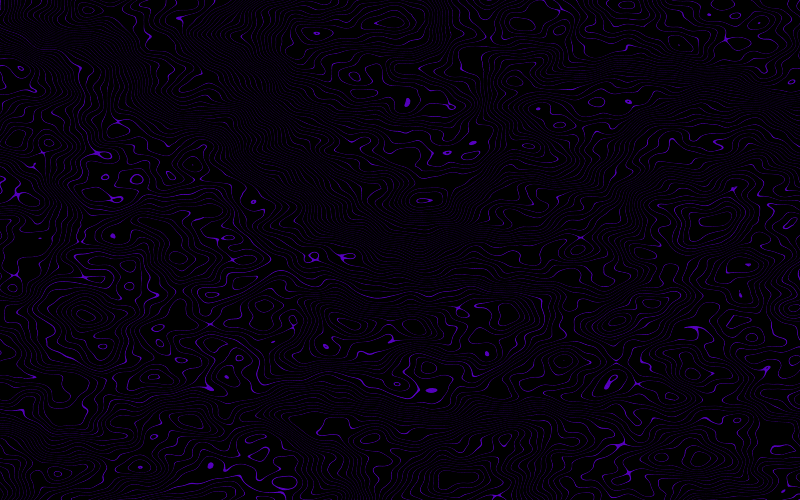
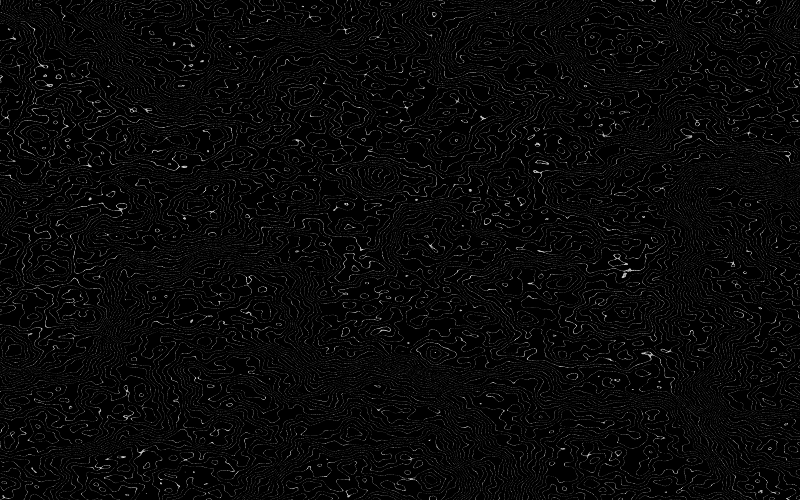
added scale and seed parameters

Changed region(s): [[0.0, 0.0, 1.0, 1.0]]

diff --git a/src/main.rs b/src/main.rs
@@ -1,8 +1,8 @@
-use noise::{Fbm, NoiseFn, Perlin};
 use image::RgbImage;
+use indicatif::ParallelProgressIterator;
+use noise::{Fbm, NoiseFn, Perlin};
 use rand::Rng;
 use rayon::prelude::*;
-use indicatif::ParallelProgressIterator;
 
 mod color;
 use color::Color;
@@ -19,12 +19,12 @@ fn noise_to_color(noise: f64, color1: Color, color2: Color, bands: f64, band_wid
 // returns percentage (150% - 50%) for how much a sample point should add to the final color
 // avarage between offset = -0.5 and offset = 0.5 is 100%
 fn get_sample_importance(x_offset: f64, y_offset: f64) -> f64 {
-	let offset = (x_offset*x_offset + y_offset*y_offset).sqrt();
+	let offset = (x_offset * x_offset + y_offset * y_offset).sqrt();
 	-2.0 * offset + 1.5
 }
 
-fn generate(filepath: &str, width: usize, height: usize, samples: usize) {
-	let fbm = Fbm::<Perlin>::new(0);
+fn generate(filepath: &str, width: usize, height: usize, samples: usize, scale: f64, seed: u32) {
+	let fbm = Fbm::<Perlin>::new(seed);
 
 	let mut image = vec![Color::default(); width * height];
 	image
@@ -35,21 +35,24 @@ fn generate(filepath: &str, width: usize, height: usize, samples: usize) {
 			let mut rng = rand::thread_rng();
 			for (x, output) in row.iter_mut().enumerate() {
 				for _ in 0..samples {
+					let x = x as f64 * scale;
+					let y = y as f64 * scale;
 					let x_offset = rng.gen_range(-0.5..0.5);
 					let y_offset = rng.gen_range(-0.5..0.5);
 					let sample_importance = get_sample_importance(x_offset, y_offset);
 					let value = fbm.get([
-						((x as f64 + x_offset) / width as f64) * 0.64,
-						((y as f64 + y_offset) / height as f64) * 0.64]);
+						(x + x_offset) / width as f64,
+						(y + y_offset) / height as f64,
+					]);
 					let color = noise_to_color(
 						value,
-						Color{ r: 115.0 / 255.0, g: 0.0, b: 1.0},
-						Color{ r: 0.0, g: 0.0, b: 0.0 },
-						50.0,
-						0.00125,
+						Color { r: 1.0, g: 1.0, b: 1.0 },
+						Color { r: 0.0, g: 0.0, b: 0.0 },
+						100.0,
+						0.0018,
 					);
 					*output += color * sample_importance * (1.0 / samples as f64);
-				}			
+				}
 			}
 		});
 
@@ -63,8 +66,8 @@ fn generate(filepath: &str, width: usize, height: usize, samples: usize) {
 				image::Rgb([
 					(color.r * 255.0) as u8,
 					(color.g * 255.0) as u8,
-					(color.b * 255.0) as u8
-				])
+					(color.b * 255.0) as u8,
+				]),
 			);
 		}
 	}
@@ -72,10 +75,10 @@ fn generate(filepath: &str, width: usize, height: usize, samples: usize) {
 }
 
 fn main() {
-	generate("output.png", 2560, 1440, 200);
+	generate("output.png", 2560, 1440, 200, 0.75, 0);
 }
 
 #[test]
 fn generate_preview() {
-	generate("preview.png", 800, 500, 200);
+	generate("preview.png", 800, 500, 25, 0.75, 0);
 }
